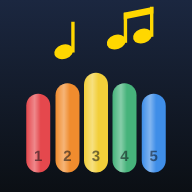
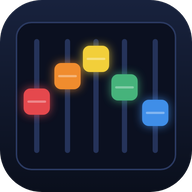
Smart Control: neues App-Symbol (fünf Regler in SW-Farben)
Claude-Session: https://claude.ai/code/session_01FurwkA9ZNSYg6Y4Y358v2n

diff --git a/sw.js b/sw.js
@@ -3,7 +3,7 @@
 // Bibliotheken und Modelle: aus dem Speicher, sonst aus dem Netz – und dann merken.
 // Die SoundFont speichert die Seite selbst (IndexedDB), deshalb hier nicht doppelt.
 // Bei geänderten Dateien in vendor/ oder models/ die Versionsnummer erhöhen.
-const CACHE = 'swlooper-v1';
+const CACHE = 'swlooper-v2';
 
 self.addEventListener('install', e => {
   e.waitUntil(caches.open(CACHE).then(c => c.addAll(['./', './index.html', './SoundWhacker_Looper.html', './SoundWhacker_Kamera.html', './SoundWhacker_Spielen.html', './spielen.webmanifest', './icons/spielen-192.png', './icons/spielen-512.png', './icons/spielen-touch-180.png', './icons/spielen-32.png'])).then(() => self.skipWaiting()));
